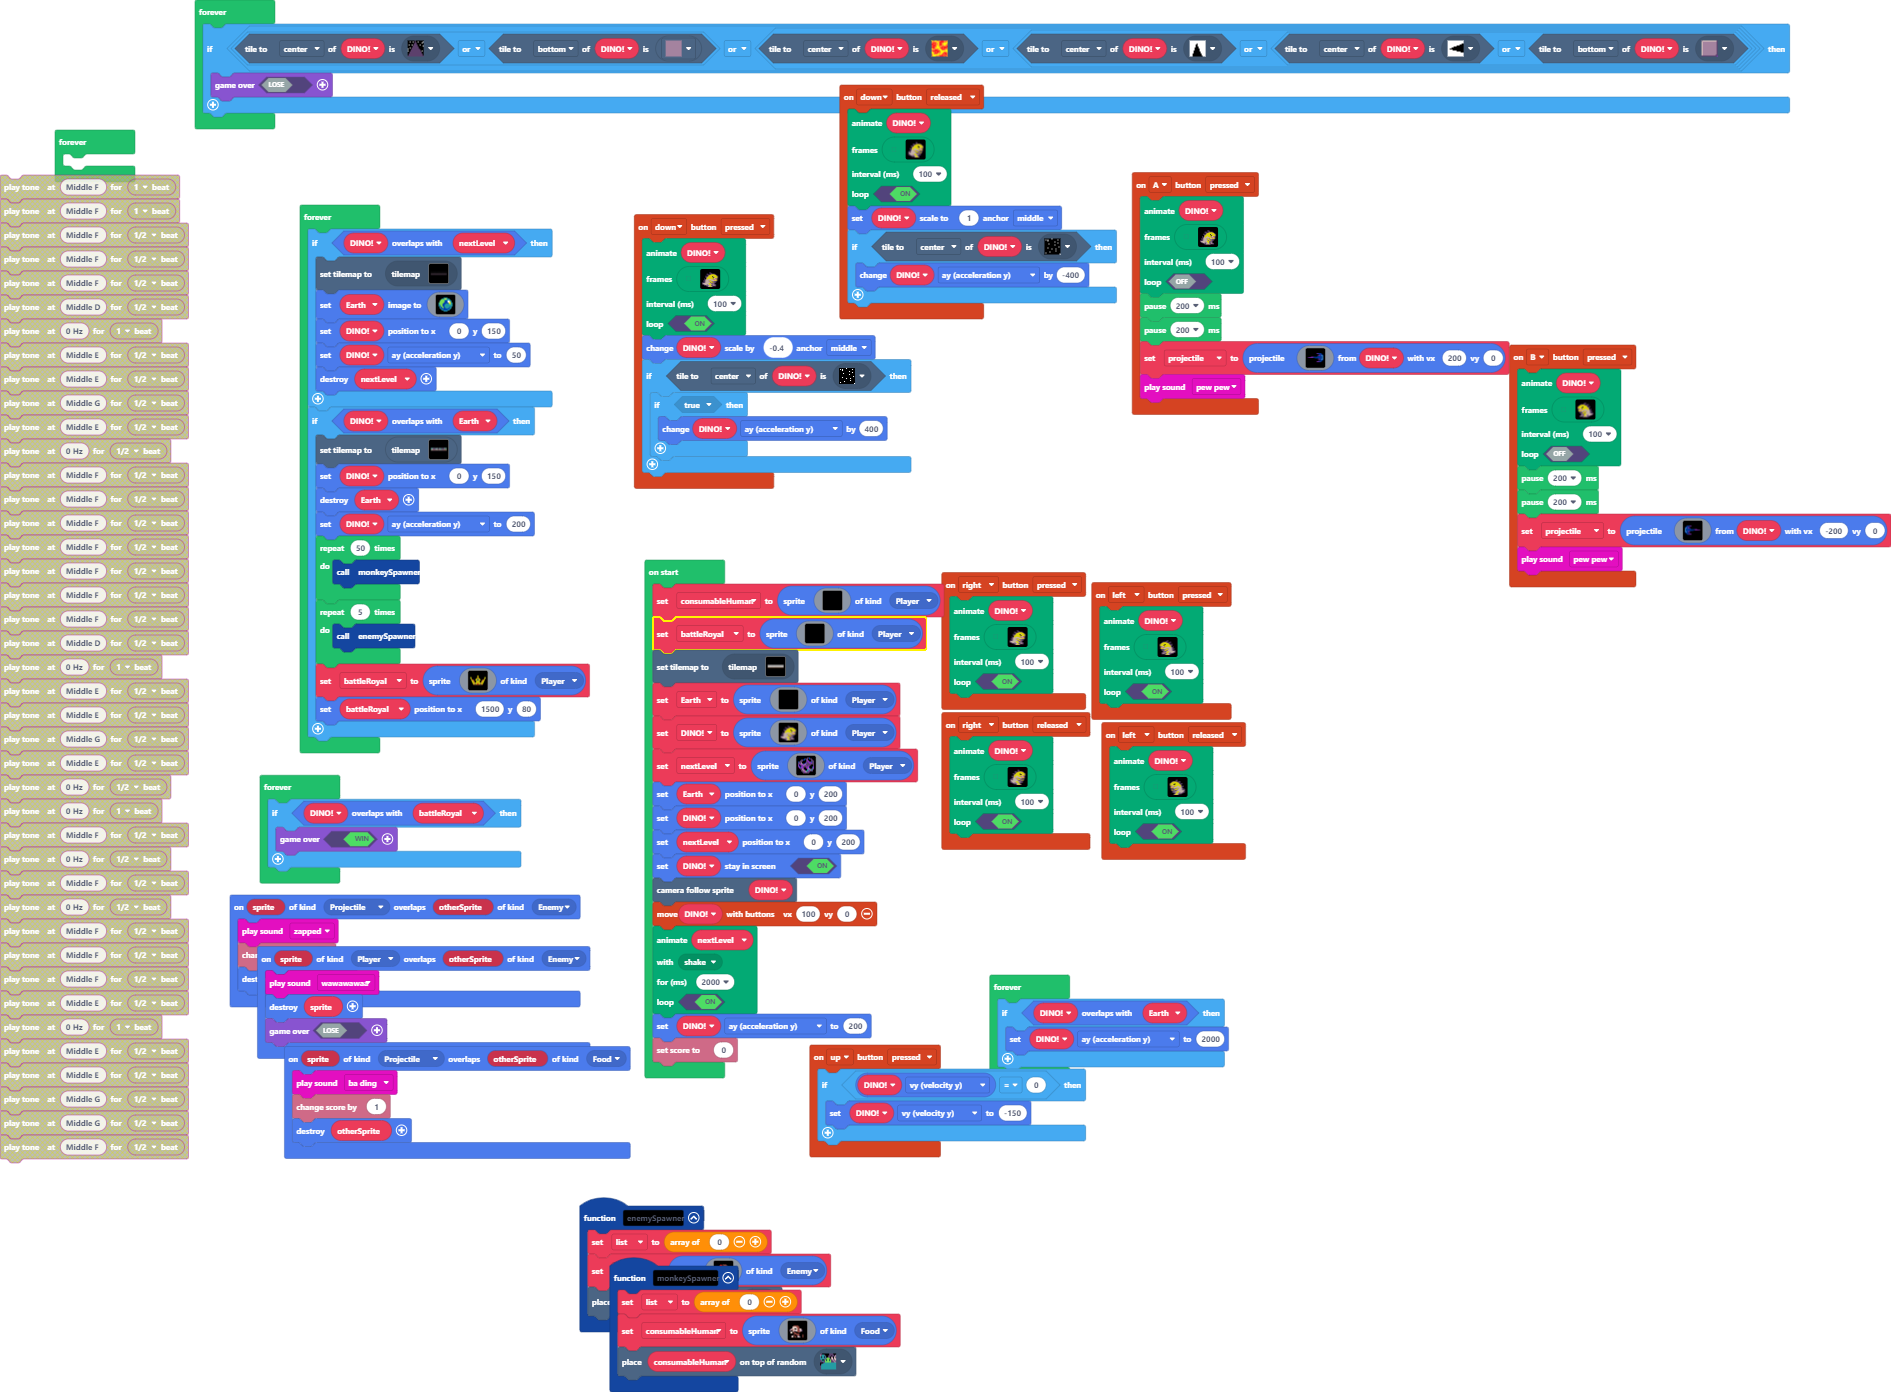
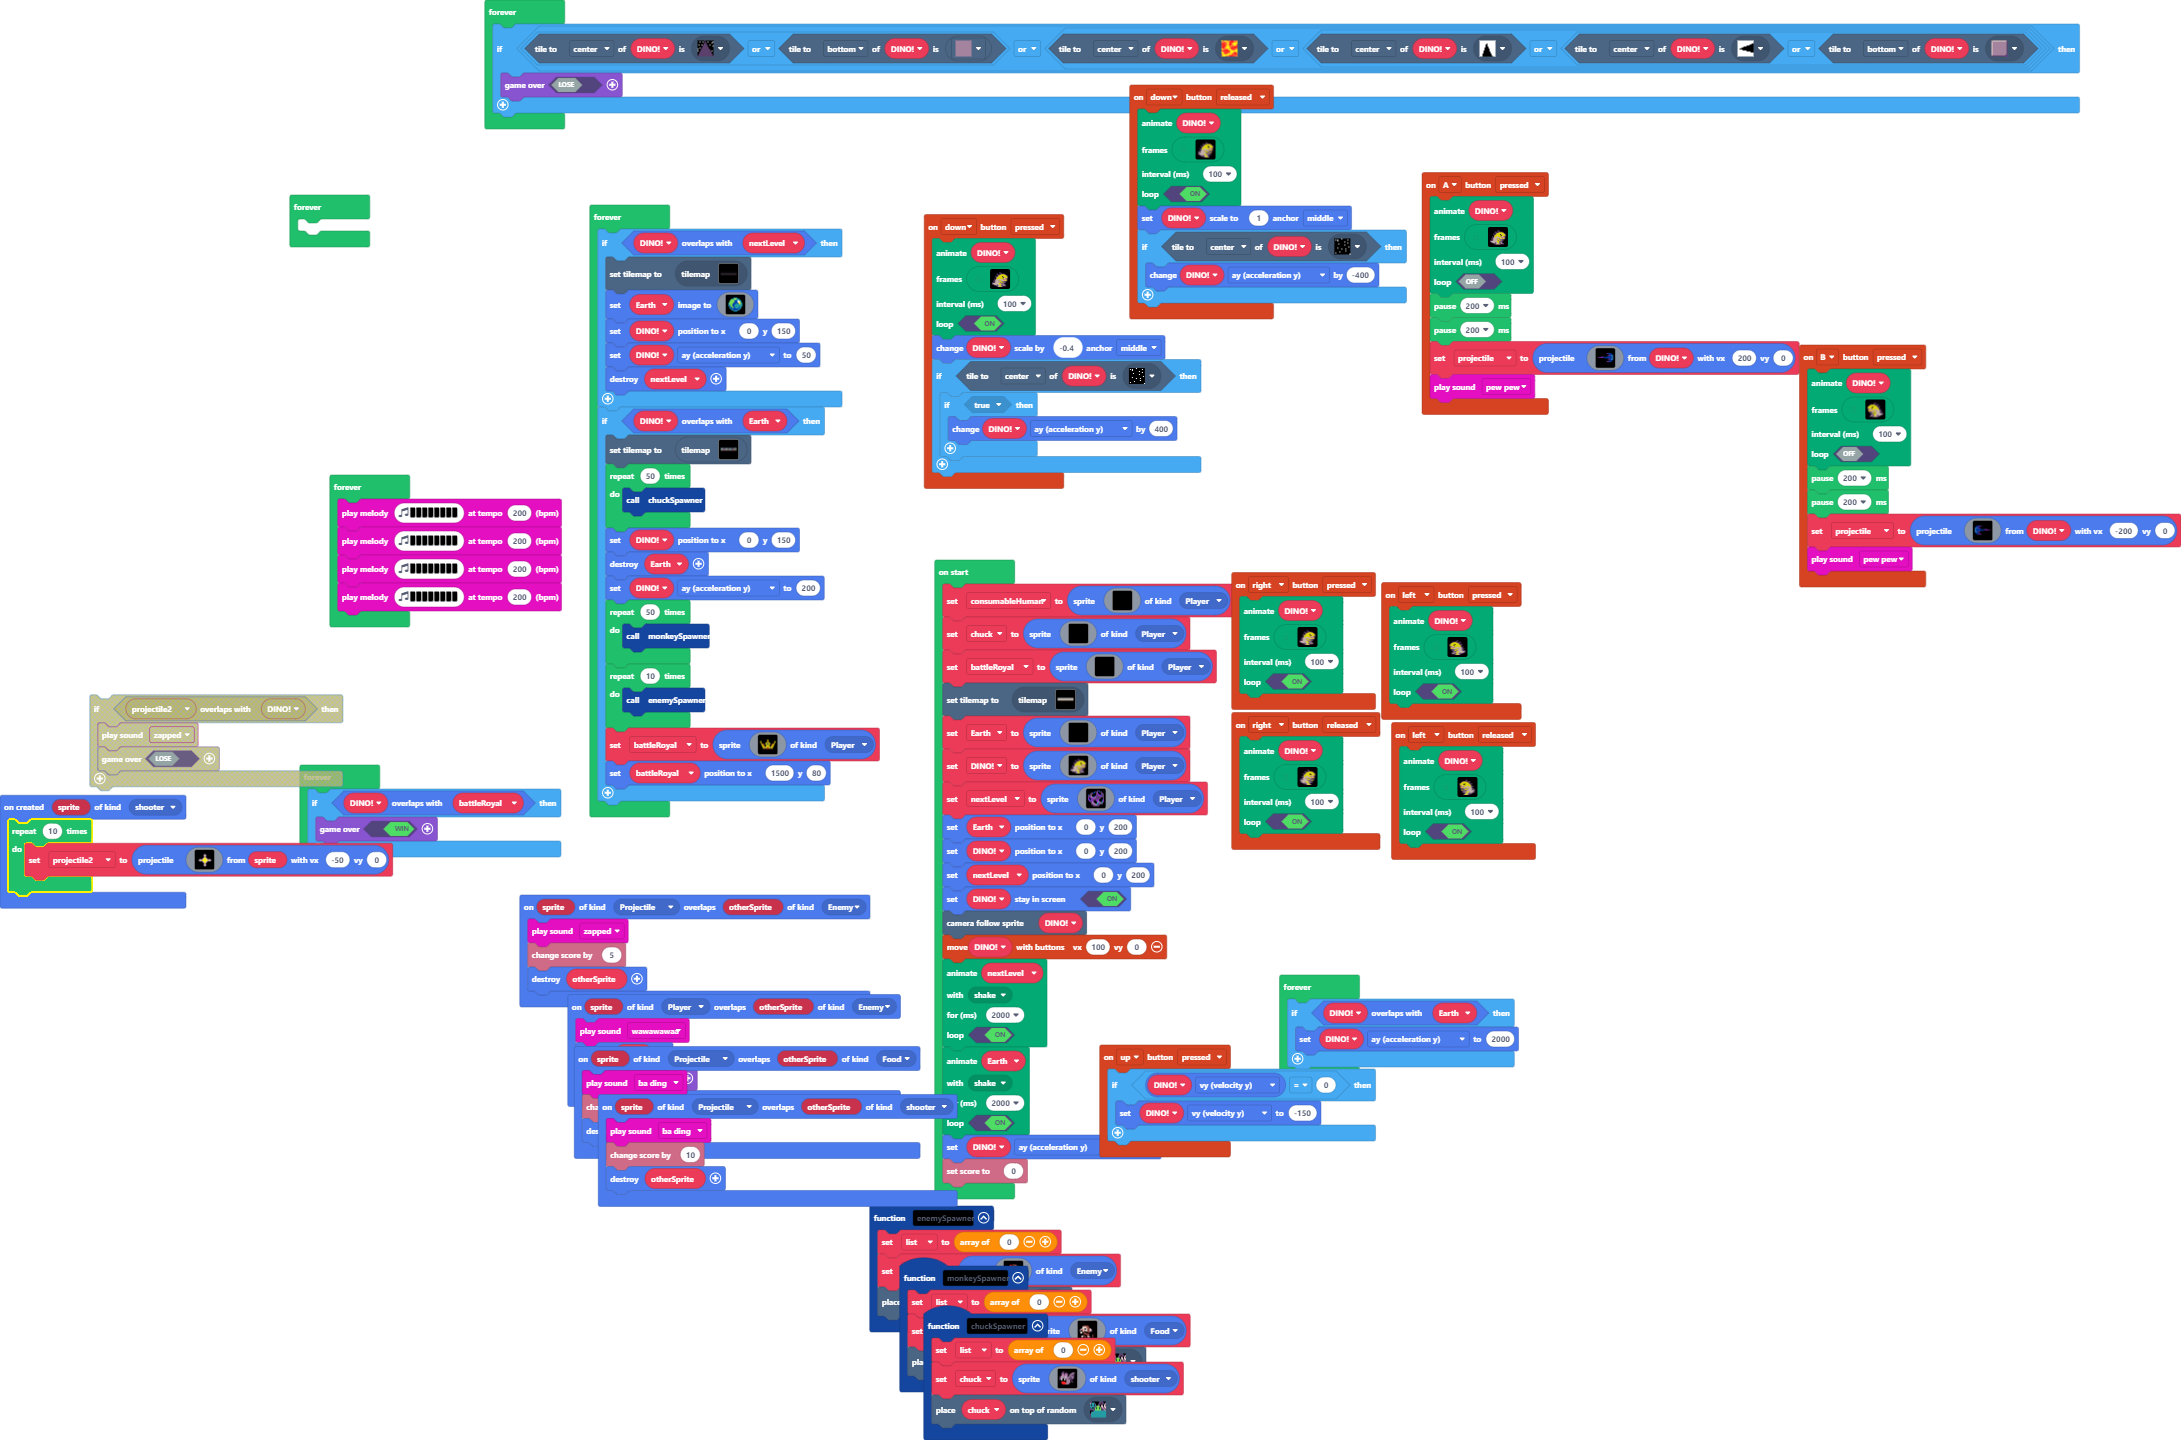
working on shooter

diff --git a/main.ts b/main.ts
@@ -1,6 +1,36 @@
+namespace SpriteKind {
+    export const shooter = SpriteKind.create()
+}
+sprites.onOverlap(SpriteKind.Projectile, SpriteKind.shooter, function (sprite, otherSprite) {
+    music.baDing.play()
+    info.changeScoreBy(10)
+    otherSprite.destroy()
+})
 controller.up.onEvent(ControllerButtonEvent.Pressed, function () {
     if (DINO.vy == 0) {
         DINO.vy = -150
+    }
+})
+sprites.onCreated(SpriteKind.shooter, function (sprite) {
+    for (let index = 0; index < 10; index++) {
+        projectile2 = sprites.createProjectileFromSprite(img`
+            . . . . . . . . . . . . . . . . 
+            . . . . . . . . . . . . . . . . 
+            . . . . . . . . b . . . . . . . 
+            . . . . . . . b d b . . . . . . 
+            . . . . . . . c d c . . . . . . 
+            . . . . . . . c 5 c . . . . . . 
+            . . . . . . c d 5 d c . . . . . 
+            . . . b c c d 5 5 5 d c c b . . 
+            . . b d d 5 5 5 5 5 5 5 d d b . 
+            . . . b c c d 5 5 5 d c c b . . 
+            . . . . . . c d 5 d c . . . . . 
+            . . . . . . . c 5 c . . . . . . 
+            . . . . . . . c d c . . . . . . 
+            . . . . . . . b d b . . . . . . 
+            . . . . . . . . b . . . . . . . 
+            . . . . . . . . . . . . . . . . 
+            `, sprite, -50, 0)
     }
 })
 sprites.onOverlap(SpriteKind.Projectile, SpriteKind.Food, function (sprite, otherSprite) {
@@ -995,6 +1025,28 @@ controller.down.onEvent(ControllerButtonEvent.Pressed, function () {
         }
     }
 })
+function chuckSpawner () {
+    list = [0]
+    chuck = sprites.create(img`
+        . . f f f . . . . . . . . . . . 
+        f f f c c . . . . . . . . f f f 
+        f f c c c . c c . . . f c b b c 
+        f f c 3 c c 3 c c f f b b b c . 
+        f f c 3 b c 3 b c f b b c c c . 
+        f c b b b b b b c f b c b c c . 
+        c c 1 b b b 1 b c b b c b b c . 
+        c b b b b b b b b b c c c b c . 
+        c b 1 f f 1 c b b c c c c c . . 
+        c f 1 f f 1 f b b b b f c . . . 
+        f f f f f f f b b b b f c . . . 
+        f f 2 2 2 2 f b b b b f c c . . 
+        . f 2 2 2 2 2 b b b c f . . . . 
+        . . f 2 2 2 b b b c f . . . . . 
+        . . . f f f f f f f . . . . . . 
+        . . . . . . . . . . . . . . . . 
+        `, SpriteKind.shooter)
+    tiles.placeOnRandomTile(chuck, sprites.builtin.crowd0)
+}
 sprites.onOverlap(SpriteKind.Projectile, SpriteKind.Enemy, function (sprite, otherSprite) {
     music.zapped.play()
     info.changeScoreBy(5)
@@ -1008,9 +1060,29 @@ sprites.onOverlap(SpriteKind.Player, SpriteKind.Enemy, function (sprite, otherSp
 let kullU: Sprite = null
 let list: number[] = []
 let projectile: Sprite = null
+let projectile2: Sprite = null
 let DINO: Sprite = null
+let chuck: Sprite = null
 let consumableHuman: Sprite = null
 consumableHuman = sprites.create(img`
+    . . . . . . . . . . . . . . . . 
+    . . . . . . . . . . . . . . . . 
+    . . . . . . . . . . . . . . . . 
+    . . . . . . . . . . . . . . . . 
+    . . . . . . . . . . . . . . . . 
+    . . . . . . . . . . . . . . . . 
+    . . . . . . . . . . . . . . . . 
+    . . . . . . . . . . . . . . . . 
+    . . . . . . . . . . . . . . . . 
+    . . . . . . . . . . . . . . . . 
+    . . . . . . . . . . . . . . . . 
+    . . . . . . . . . . . . . . . . 
+    . . . . . . . . . . . . . . . . 
+    . . . . . . . . . . . . . . . . 
+    . . . . . . . . . . . . . . . . 
+    . . . . . . . . . . . . . . . . 
+    `, SpriteKind.Player)
+chuck = sprites.create(img`
     . . . . . . . . . . . . . . . . 
     . . . . . . . . . . . . . . . . 
     . . . . . . . . . . . . . . . . 
@@ -1121,6 +1193,12 @@ animation.animationPresets(animation.shake),
 2000,
 true
 )
+animation.runMovementAnimation(
+Earth,
+animation.animationPresets(animation.shake),
+2000,
+true
+)
 DINO.ay = 200
 info.setScore(0)
 forever(function () {
@@ -1158,13 +1236,16 @@ forever(function () {
     }
     if (DINO.overlapsWith(Earth)) {
         tiles.setCurrentTilemap(tilemap`level7`)
+        for (let index = 0; index < 50; index++) {
+            chuckSpawner()
+        }
         DINO.setPosition(0, 150)
         Earth.destroy()
         DINO.ay = 200
         for (let index = 0; index < 50; index++) {
             monkeySpawner()
         }
-        for (let index = 0; index < 5; index++) {
+        for (let index = 0; index < 10; index++) {
             enemySpawner()
         }
         battleRoyal = sprites.create(img`
@@ -1196,6 +1277,12 @@ forever(function () {
             `, SpriteKind.Player)
         battleRoyal.setPosition(1500, 80)
     }
+})
+forever(function () {
+    music.playMelody("E A D G B F A C ", 200)
+    music.playMelody("C D E F G A B C5 ", 200)
+    music.playMelody("C5 A B D F E G C ", 200)
+    music.playMelody("B F D C G E C5 A ", 200)
 })
 forever(function () {
     if (DINO.overlapsWith(battleRoyal)) {

diff --git a/tilemap.g.ts b/tilemap.g.ts
@@ -255,6 +255,25 @@ namespace myTiles {
 2222222222222222222222222222222222222222222222222222222222222222222222222222222222222222222222222222
 2222222222222222222222222222222222222222222222222222222222222222222222222222222222222222222222222222
 `, [myTiles.transparency16,myTiles.tile2,sprites.dungeon.floorDark2,myTiles.tile14,sprites.dungeon.floorLight2,sprites.dungeon.stairEast,sprites.builtin.brick,sprites.dungeon.collectibleInsignia,sprites.dungeon.doorLockedNorth,sprites.dungeon.greenOuterNorth0,sprites.dungeon.purpleOuterNorth1,sprites.dungeon.stairLadder,sprites.dungeon.darkGroundCenter,sprites.dungeon.floorLightMoss,sprites.dungeon.floorDark3,sprites.dungeon.purpleOuterNorth2,sprites.builtin.field1,sprites.skillmap.islandTile1,myTiles.tile15,sprites.builtin.field0,myTiles.tile13,sprites.dungeon.doorClosedNorth,sprites.builtin.crowd0], TileScale.Sixteen);
+            case "level11":
+            case "level11":return tiles.createTilemap(hex`1000100000000000000000000000000000000000000000000000000000000000000000000000000000000000000000000000000000000000000000000000000000000000000000000000000000000000000000000000000000000000000000000000000000000000000000000000000000000000000000000000000000000000000000000000000000000000000000000000000000000000000000000000000000000000000000000000000000000000000000000000000000000000000000000000000000000000000000000000000000000000000000000000000000000000000000000000000000000000000000000000000000000000000000000000000000000000`, img`
+. . . . . . . . . . . . . . . . 
+. . . . . . . . . . . . . . . . 
+. . . . . . . . . . . . . . . . 
+. . . . . . . . . . . . . . . . 
+. . . . . . . . . . . . . . . . 
+. . . . . . . . . . . . . . . . 
+. . . . . . . . . . . . . . . . 
+. . . . . . . . . . . . . . . . 
+. . . . . . . . . . . . . . . . 
+. . . . . . . . . . . . . . . . 
+. . . . . . . . . . . . . . . . 
+. . . . . . . . . . . . . . . . 
+. . . . . . . . . . . . . . . . 
+. . . . . . . . . . . . . . . . 
+. . . . . . . . . . . . . . . . 
+. . . . . . . . . . . . . . . . 
+`, [myTiles.transparency16], TileScale.Sixteen);
         }
         return null;
     })
